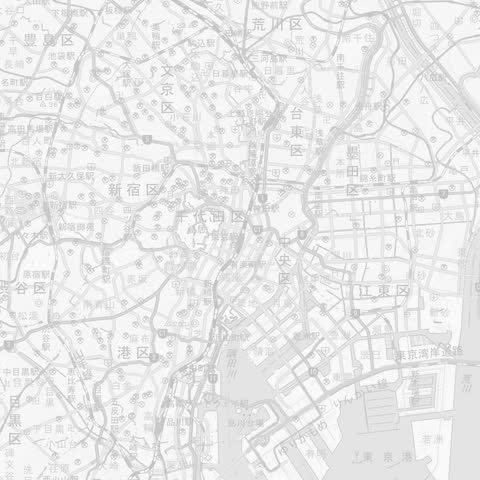
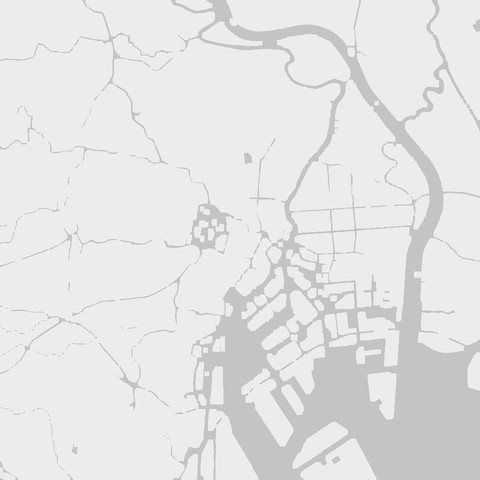
Show Tokyo as land and water on the place card
The road map was too dense to read as Tokyo at card size. The new map
keeps only land and water from GSI pale tiles, about 25km across, so
the bay and the Sumida and Arakawa rivers carry it; Tokyo Station sits
under the dot at the center.

diff --git a/index.html b/index.html
@@ -544,14 +544,15 @@
       50% { opacity: 0; }
     }
 
-    /* Place: where I am, a gray Tokyo map with a pulsing dot. On hover the
+    /* Place: where I am, Tokyo as land and water only (the bay, the Sumida
+       and the Arakawa), Tokyo Station under the pulsing dot. On hover the
        map blurs and names the current sprint; the dot stays on top. */
     .place {
       grid-area: place;
       cursor: default;
     }
     .place .tile-media {
-      background-color: #e6e6e6;
+      background-color: #ececec;
       background-image: url("assets/tokyo.jpg");
     }
     @media (prefers-color-scheme: dark) {
